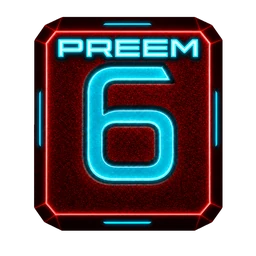
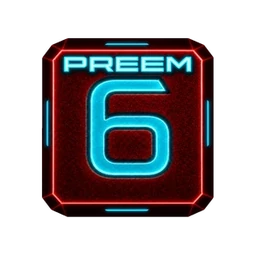
Match PREEM D6 render size

diff --git a/scripts/build_d6_pngs.py b/scripts/build_d6_pngs.py
@@ -12,6 +12,8 @@ from build_dice_svgs import actual_die_alpha, save_webp
 
 
 COMPOSE_SIZE = 850
+PREEM_SIZE_RATIO = (233 / 256, 214 / 256)
+PREEM_OFFSET_RATIO = (11 / 256, 24 / 256)
 
 
 def largest_component(mask: np.ndarray) -> np.ndarray:
@@ -141,9 +143,15 @@ def build_purple_set(base_source: Path, dice_root: Path) -> None:
 
 def build_red_preem(source: Path, dice_root: Path) -> None:
     output = clean_die(source)
+    # The PREEM source fills more of its canvas than the standard D6. Fit it
+    # to the same measured visible bounds so both render at equal chat size.
+    fitted_size = tuple(round(COMPOSE_SIZE * ratio) for ratio in PREEM_SIZE_RATIO)
+    fitted_offset = tuple(round(COMPOSE_SIZE * ratio) for ratio in PREEM_OFFSET_RATIO)
+    fitted = Image.new("RGBA", (COMPOSE_SIZE, COMPOSE_SIZE), (0, 0, 0, 0))
+    fitted.alpha_composite(output.resize(fitted_size, Image.Resampling.LANCZOS), fitted_offset)
     destination = dice_root / "red-blue"
     destination.mkdir(parents=True, exist_ok=True)
-    save_webp(output, destination / "d6_6_preem.webp")
+    save_webp(fitted, destination / "d6_6_preem.webp")
 
 
 def main() -> None:

diff --git a/README.md b/README.md
@@ -31,7 +31,7 @@ https://github.com/GMPneuma/PneumaChatDice/releases
 
 ## Compatibility
 
-Version 0.8.1 targets:
+Version 0.8.2 targets:
 
 - Foundry Virtual Tabletop 11-12
 - Cyberpunk RED - CORE v0.88.2
